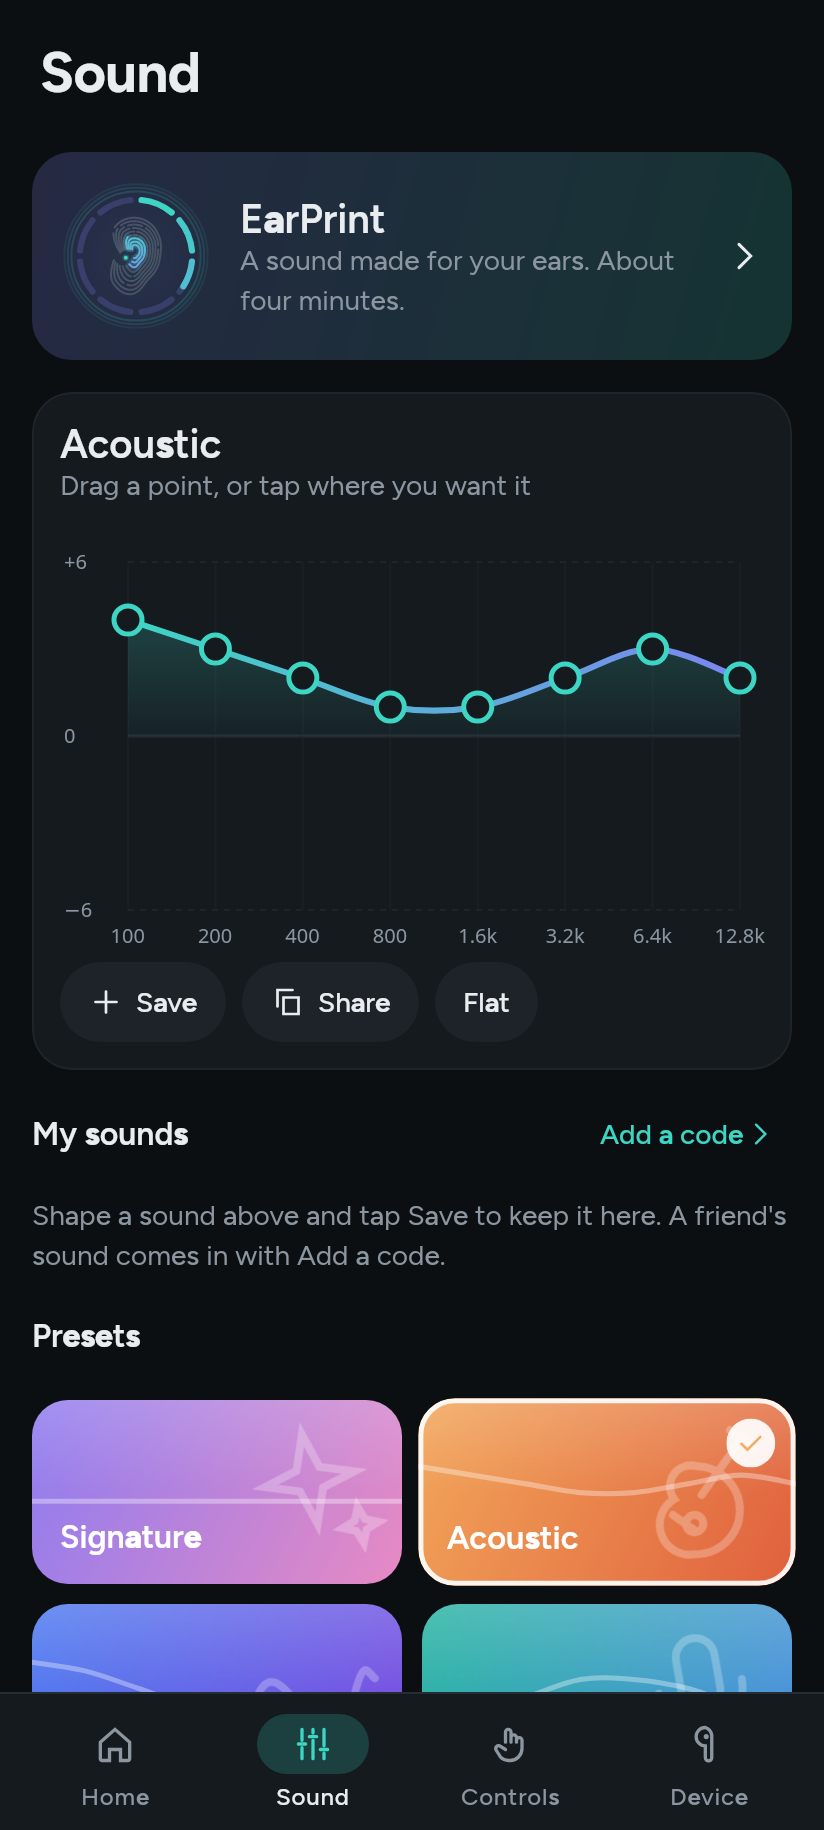
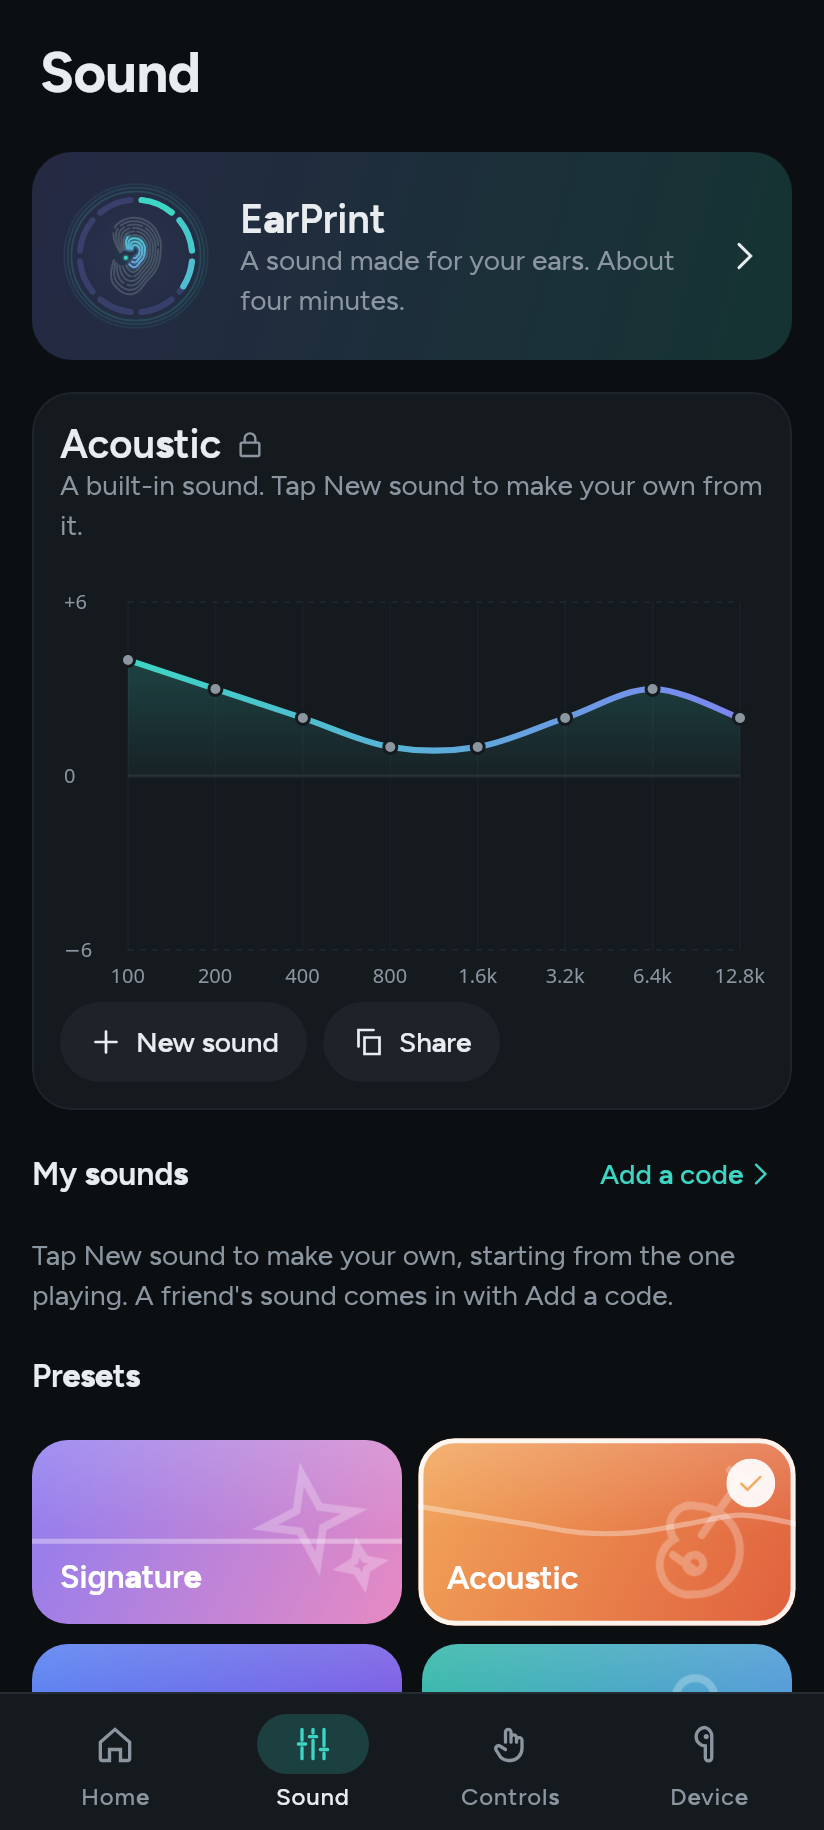
Sound: built-in presets are locked; New sound makes your own from the one playing, only your own sounds can be reshaped, and a long press deletes one

diff --git a/ui/src/commonMain/kotlin/com/blazify/buds/ui/screens/DeeperScreens.kt b/ui/src/commonMain/kotlin/com/blazify/buds/ui/screens/DeeperScreens.kt
@@ -78,16 +78,34 @@ fun EqualizerScreen(state: BudsState, change: (Change) -> Unit, back: (() -> Uni
     // The bands move under the finger and are sent once the finger lifts, so the earbuds aren't flooded.
     var draft by remember { mutableStateOf(eq.left) }
     LaunchedEffect(eq.left) { draft = eq.left }
-    var saving by remember { mutableStateOf(false) }
+    var naming by remember { mutableStateOf(false) }
     var importing by remember { mutableStateOf(false) }
-    val mine = if (eq.preset == null) prefs.sounds.firstOrNull { same(it.gains, eq.left) } else null
+    var deleting by remember { mutableStateOf<com.blazify.buds.ui.SavedSound?>(null) }
+    // Built-in presets stay as they are; only the person's own sounds can be reshaped. The one being shaped is
+    // remembered by name, as its bands change under the finger.
+    var editing by remember { mutableStateOf<String?>(null) }
+    val matching = if (eq.preset == null) prefs.sounds.firstOrNull { same(it.gains, eq.left) } else null
+    LaunchedEffect(eq.preset, matching?.name) {
+        if (eq.preset != null) editing = null else if (matching != null) editing = matching.name
+    }
+    val mine = editing?.takeIf { eq.preset == null }?.let { n -> prefs.sounds.firstOrNull { it.name == n } }
     val name = eq.preset?.name ?: mine?.name ?: "Custom"
+    fun shareSound(sound: com.blazify.buds.ui.SavedSound) =
+        share("My Blazbuds sound \"${sound.name}\". In Blazbuds, open Sound › Add a code and paste:\n${sound.code()}")
     Panel(padding = 14.dp) {
         Row(verticalAlignment = Alignment.CenterVertically) {
             Column(Modifier.weight(1f)) {
-                Text(name, style = MaterialTheme.typography.titleLarge, color = palette.text)
+                Row(verticalAlignment = Alignment.CenterVertically, horizontalArrangement = Arrangement.spacedBy(6.dp)) {
+                    Text(name, style = MaterialTheme.typography.titleLarge, color = palette.text)
+                    if (mine == null) Icon(BudsIcons.Lock, "Can't be changed", tint = palette.muted, modifier = Modifier.size(16.dp))
+                }
                 Text(
-                    if (state.bothConnected) "Drag a point, or tap where you want it" else "Take both earbuds out of the case to change it",
+                    when {
+                        !state.bothConnected -> "Take both earbuds out of the case to change it"
+                        mine != null -> "Drag a point, or tap where you want it. Changes are kept in ${mine.name}."
+                        eq.preset != null -> "A built-in sound. Tap New sound to make your own from it."
+                        else -> "Tap New sound to keep this one and shape it."
+                    },
                     style = MaterialTheme.typography.bodyMedium,
                     color = palette.muted,
                 )
@@ -96,50 +114,74 @@ fun EqualizerScreen(state: BudsState, change: (Change) -> Unit, back: (() -> Uni
         com.blazify.buds.ui.blocks.EqEditor(
             draft,
             eq.frequencies,
-            editable = state.bothConnected,
+            editable = state.bothConnected && mine != null,
             onChange = { draft = it },
-            onDone = { change(Change.Bands(draft)) },
+            onDone = {
+                mine?.let { prefs.saveSound(it.name, draft) }
+                change(Change.Bands(draft))
+            },
         )
         Row(Modifier.horizontalScroll(rememberScrollState()), horizontalArrangement = Arrangement.spacedBy(8.dp)) {
-            Choice("Save", false, icon = BudsIcons.Plus) { saving = true }
-            Choice("Share", false, icon = BudsIcons.Copy) {
-                val sound = com.blazify.buds.ui.SavedSound(name, draft)
-                share("My Blazbuds sound \"${sound.name}\". In Blazbuds, open Sound › Add a code and paste:\n${sound.code()}")
-            }
-            Choice("Flat", false) { change(Change.Bands(List(draft.size) { 0.0 })) }
+            Choice("New sound", false, icon = BudsIcons.Plus) { naming = true }
+            Choice("Share", false, icon = BudsIcons.Copy) { shareSound(com.blazify.buds.ui.SavedSound(name, draft)) }
         }
     }
     SectionTitle("My sounds", action = "Add a code") { importing = true }
     if (prefs.sounds.isEmpty()) {
-        Hint("Shape a sound above and tap Save to keep it here. A friend's sound comes in with Add a code.")
+        Hint("Tap New sound to make your own, starting from the one playing. A friend's sound comes in with Add a code.")
     } else {
         TileGrid(prefs.sounds) { i, sound, modifier ->
             com.blazify.buds.ui.blocks.PresetTile(
-                i + 3, sound.name, sound.gains, chosen = eq.preset == null && same(sound.gains, eq.left), modifier = modifier,
+                i + 3, sound.name, sound.gains, chosen = mine?.name == sound.name, modifier = modifier,
                 art = com.blazify.buds.ui.icons.SoundArt.Sparkle,
-                corner = {
-                    Row(horizontalArrangement = Arrangement.spacedBy(2.dp)) {
-                        TileAction(BudsIcons.Copy, "Share ${sound.name}") { share("My Blazbuds sound \"${sound.name}\". In Blazbuds, open Sound › Add a code and paste:\n${sound.code()}") }
-                        TileAction(BudsIcons.Trash, "Delete ${sound.name}") { prefs.deleteSound(sound.name) }
-                    }
-                },
-            ) { change(Change.Bands(sound.gains)) }
+                corner = { TileAction(BudsIcons.Copy, "Share ${sound.name}") { shareSound(sound) } },
+                onLongClick = { deleting = sound },
+            ) {
+                editing = sound.name
+                change(Change.Bands(sound.gains))
+            }
         }
+        Hint("Press and hold one of your sounds to delete it.")
     }
     SectionTitle("Presets")
     TileGrid(eq.presets) { i, preset, modifier ->
         com.blazify.buds.ui.blocks.PresetTile(i, preset.name, preset.gains, preset.id == eq.presetId, modifier) { change(Change.Preset(preset.id)) }
     }
-    if (saving) {
+    if (naming) {
         NameDialog(
-            title = "Save this sound",
-            start = if (eq.preset == null && mine == null) "" else "",
+            title = "New sound",
+            start = "",
             hint = "Name, like Gym or Late night",
             confirm = "Save",
             onDone = { text ->
-                if (text.isNotBlank()) prefs.saveSound(text, draft)
-                saving = false
+                val base = text.trim()
+                if (base.isNotEmpty()) {
+                    // A new name each time, so an earlier sound is never written over.
+                    var n = 1
+                    var unique = base
+                    while (prefs.sounds.any { it.name.equals(unique, ignoreCase = true) }) unique = "$base ${++n}"
+                    prefs.saveSound(unique, draft)
+                    editing = unique
+                    change(Change.Bands(draft))
+                }
+                naming = false
             },
+        )
+    }
+    deleting?.let { sound ->
+        androidx.compose.material3.AlertDialog(
+            onDismissRequest = { deleting = null },
+            containerColor = palette.card,
+            title = { Text("Delete ${sound.name}?", color = palette.text) },
+            text = { Text("It goes from My sounds. If it's playing now, the earbuds keep it until you choose another.", color = palette.muted) },
+            confirmButton = {
+                Choice("Delete", true) {
+                    prefs.deleteSound(sound.name)
+                    if (editing == sound.name) editing = null
+                    deleting = null
+                }
+            },
+            dismissButton = { Choice("Cancel", false) { deleting = null } },
         )
     }
     if (importing) {
@@ -151,6 +193,7 @@ fun EqualizerScreen(state: BudsState, change: (Change) -> Unit, back: (() -> Uni
             onDone = { text ->
                 com.blazify.buds.ui.SavedSound.fromCode(text)?.let { sound ->
                     prefs.saveSound(sound.name, sound.gains)
+                    editing = sound.name
                     change(Change.Bands(sound.gains))
                 }
                 importing = false

diff --git a/ui/src/commonMain/kotlin/com/blazify/buds/ui/blocks/EqEditor.kt b/ui/src/commonMain/kotlin/com/blazify/buds/ui/blocks/EqEditor.kt
@@ -145,8 +145,13 @@ fun EqEditor(
             close()
         }
         drawPath(area, Brush.verticalGradient(listOf(palette.accent.copy(alpha = 0.30f), palette.accent.copy(alpha = 0.04f), palette.cancelling.copy(alpha = 0.18f)), top, bottom))
-        val ink = if (editable) Brush.horizontalGradient(listOf(palette.accent, palette.cancelling), l, r) else Brush.horizontalGradient(listOf(palette.muted, palette.muted))
+        val ink = Brush.horizontalGradient(listOf(palette.accent, palette.cancelling), l, r)
         drawPath(curve, ink, style = Stroke(3.dp.toPx(), cap = StrokeCap.Round))
+        // A sound that can't be reshaped shows small dots at the bands instead of handles to drag.
+        if (!editable) {
+            points.forEach { p -> drawCircle(palette.card, 4.dp.toPx(), p); drawCircle(palette.muted, 2.5.dp.toPx(), p) }
+            return@Canvas
+        }
         // The handles.
         points.forEachIndexed { i, p ->
             val big = i == held
